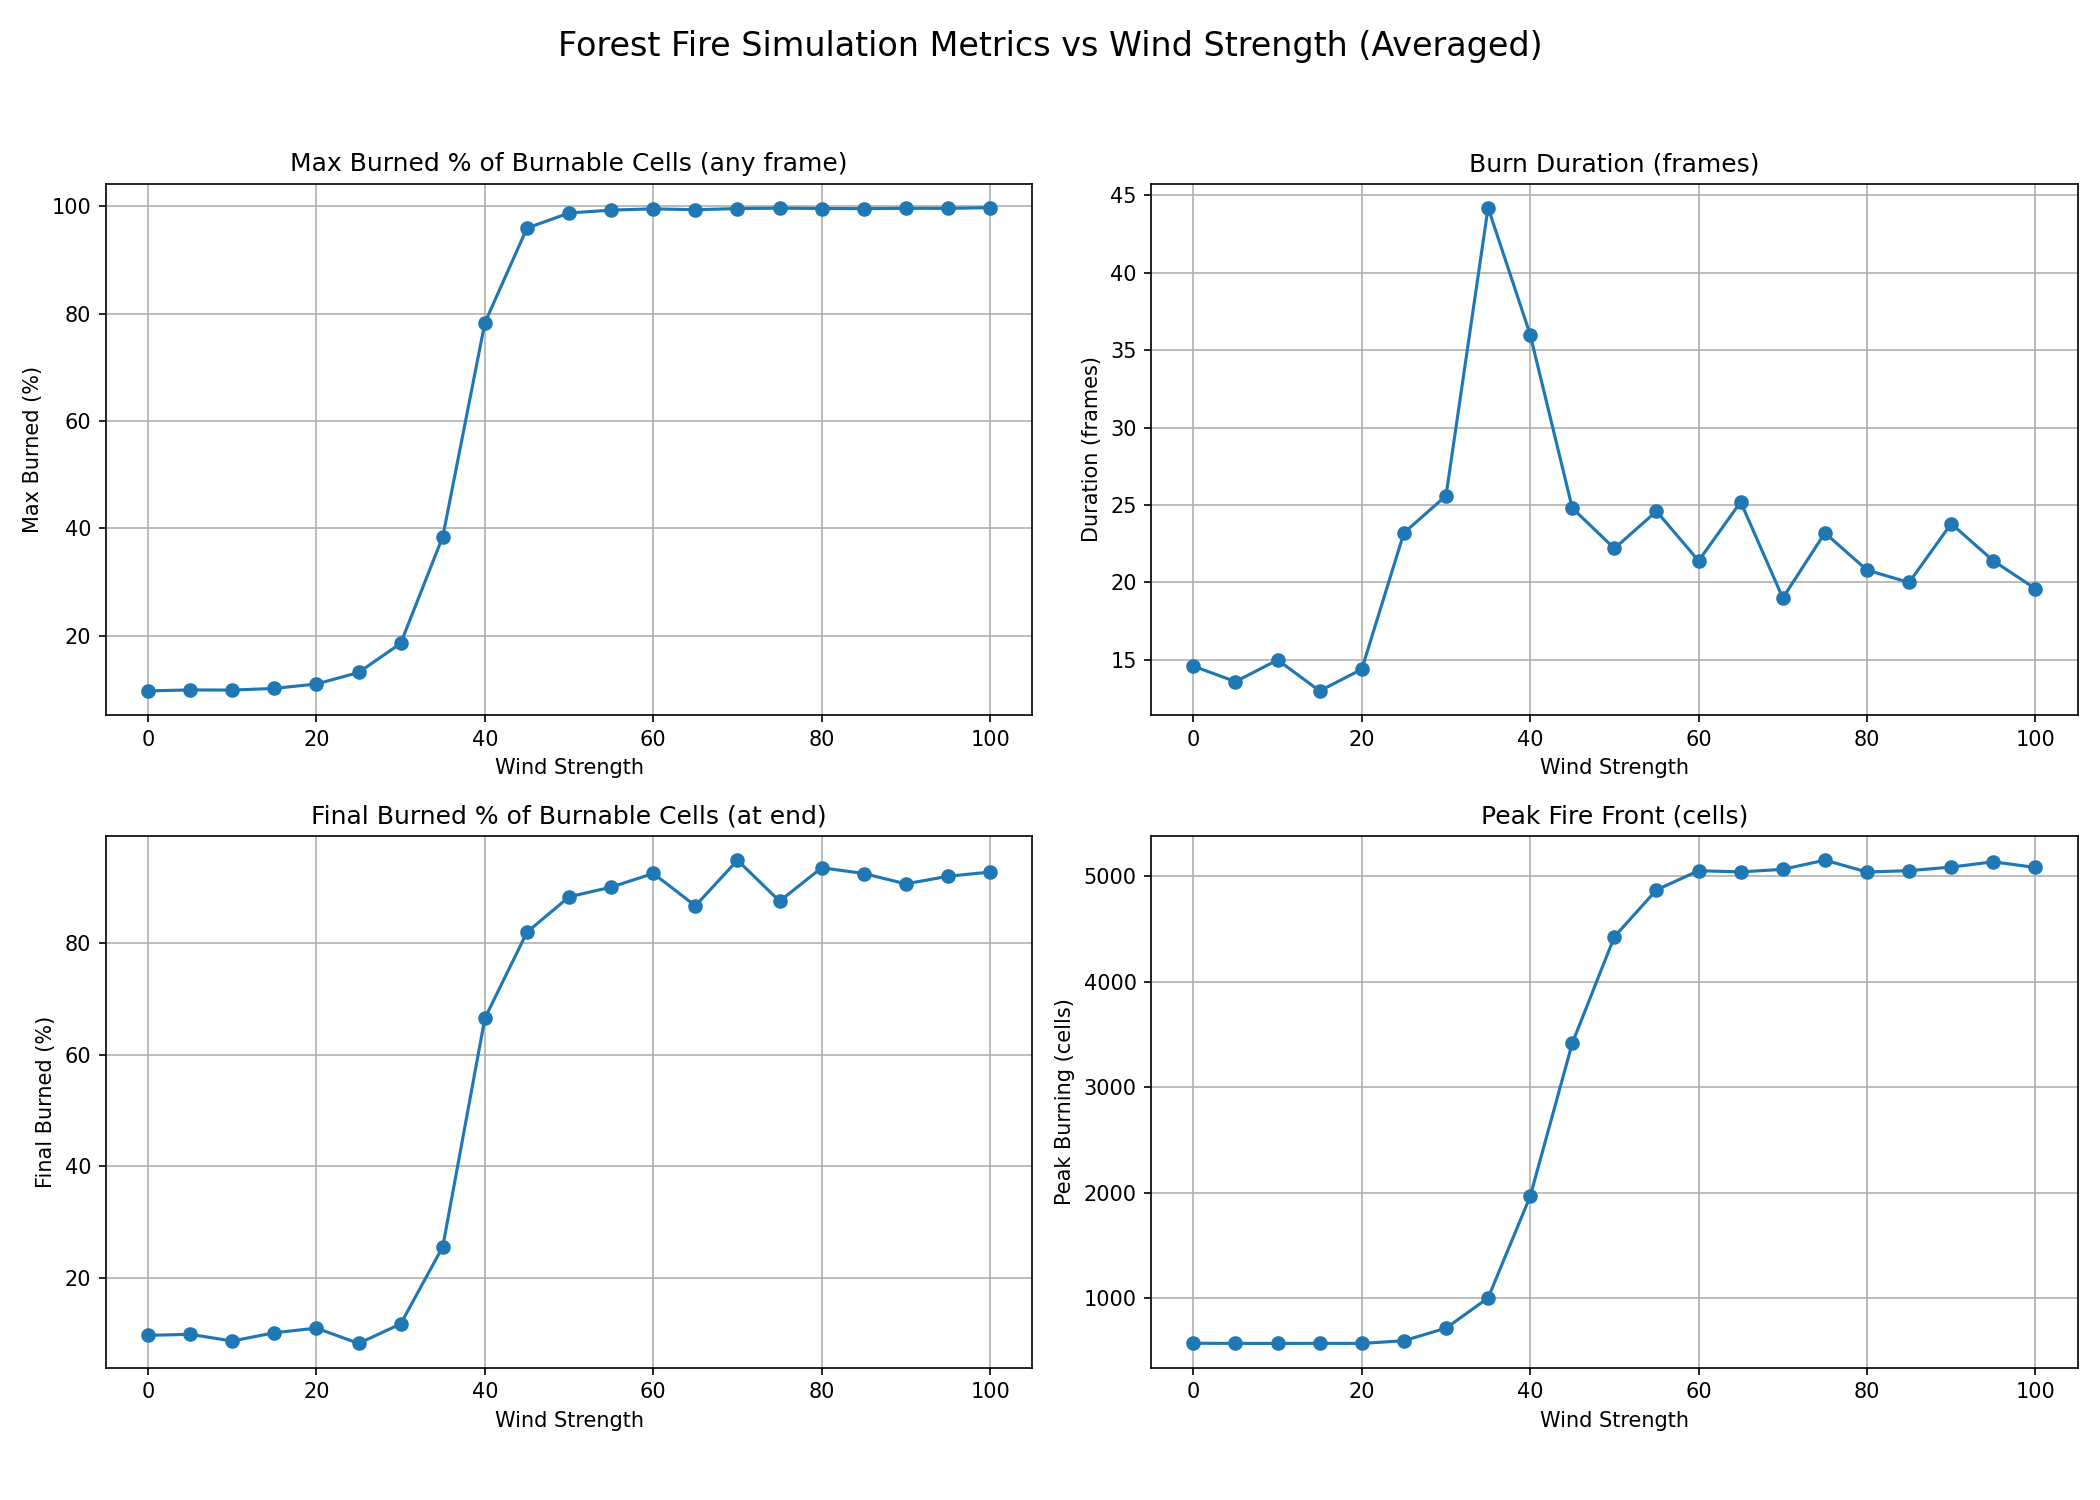
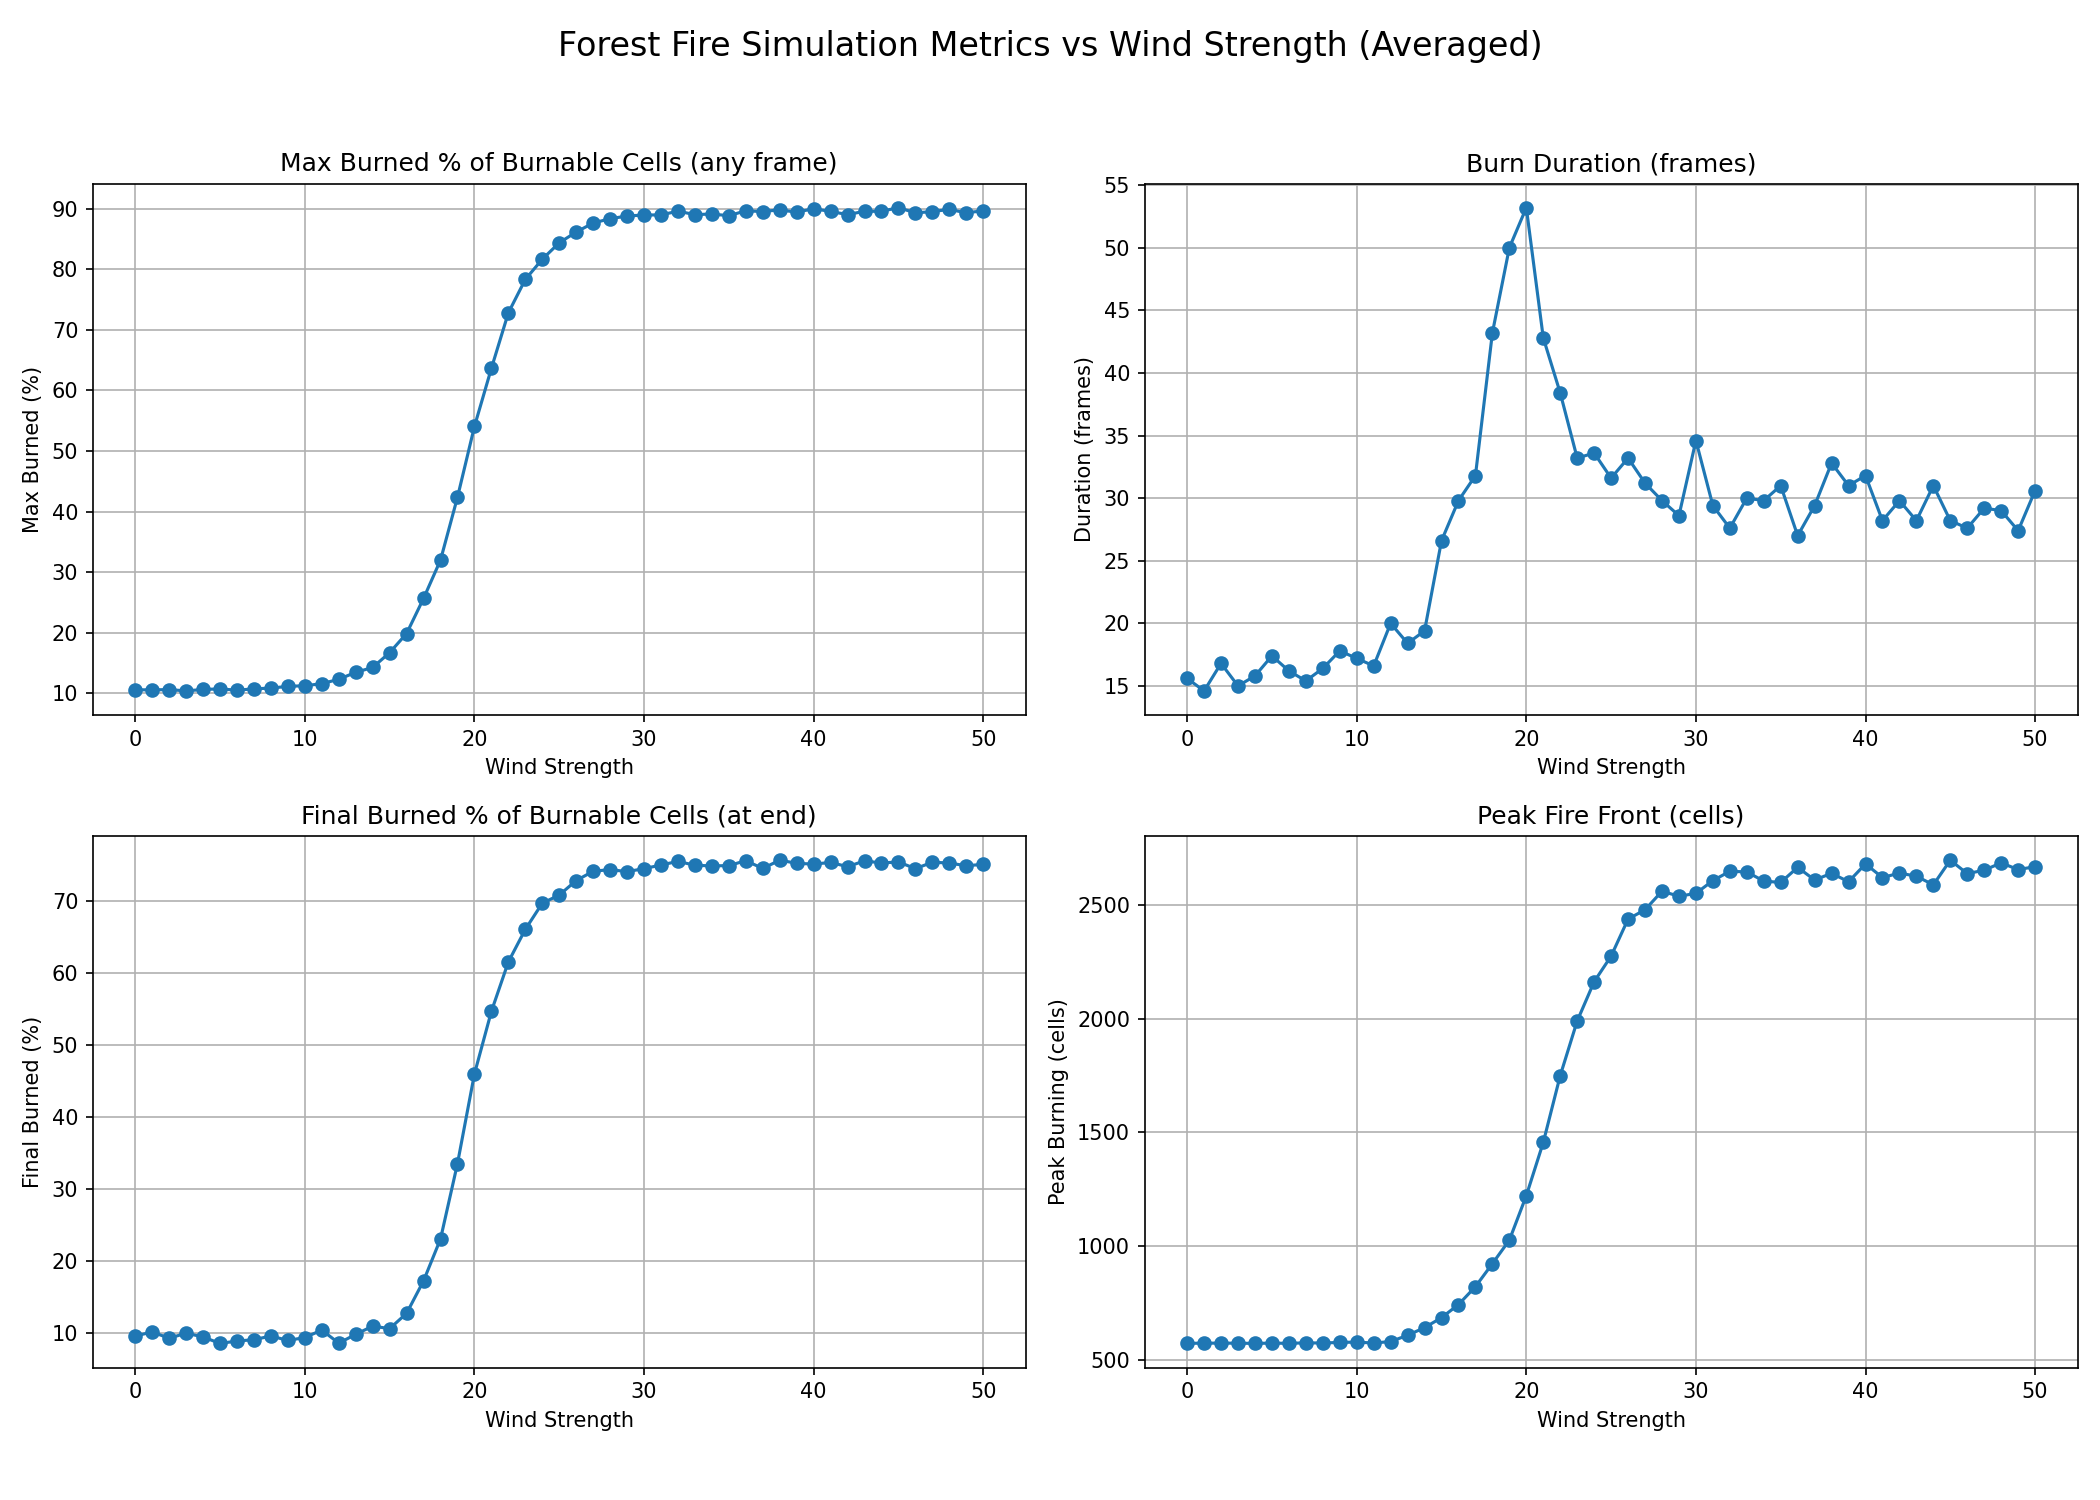
Polished grid variables annd visualization results + Changed frontend default variables and max wind speed

diff --git a/src/main.rs b/src/main.rs
@@ -1233,8 +1233,7 @@ fn ui_system(
             if params.is_wind_toggled {
                 ui.add(egui::Slider::new(&mut params.wind_angle, 0..=359).text("Wind angle °"));
                 ui.add(
-                    egui::Slider::new(&mut params.wind_strength, 1..=100)
-                        .text("Wind strength km/h"),
+                    egui::Slider::new(&mut params.wind_strength, 1..=50).text("Wind strength km/h"),
                 );
             }
             ui.horizontal(|ui| {
@@ -1659,9 +1658,9 @@ fn main() {
         .insert_resource(SimulationParams {
             width: 20,
             height: 20,
-            burning_trees: 15,
-            burning_grasses: 20,
-            thunder_percentage: 2,
+            burning_trees: 5,
+            burning_grasses: 10,
+            thunder_percentage: 0,
             is_wind_toggled: false,
             wind_angle: 0,
             wind_strength: 1,

diff --git a/data-visualization/main.py b/data-visualization/main.py
@@ -10,9 +10,9 @@ PARENT_DIR = os.path.abspath("..")
 SIM_SCRIPT = "./run-sim-ndjson.sh"
 SIM_FILE = os.path.join(PARENT_DIR, "assets/simulation_stream.ndjson")
 SIM_CONTROL = os.path.join(PARENT_DIR, "assets/sim_control.json")
-MAX_WIND_STRENGTH = 100
+MAX_WIND_STRENGTH = 50
 REPEATS = 5
-WIND_STRENGTH_STEP = 5
+WIND_STRENGTH_STEP = 1
 
 GRID_WIDTH = 100
 GRID_HEIGHT = 100
